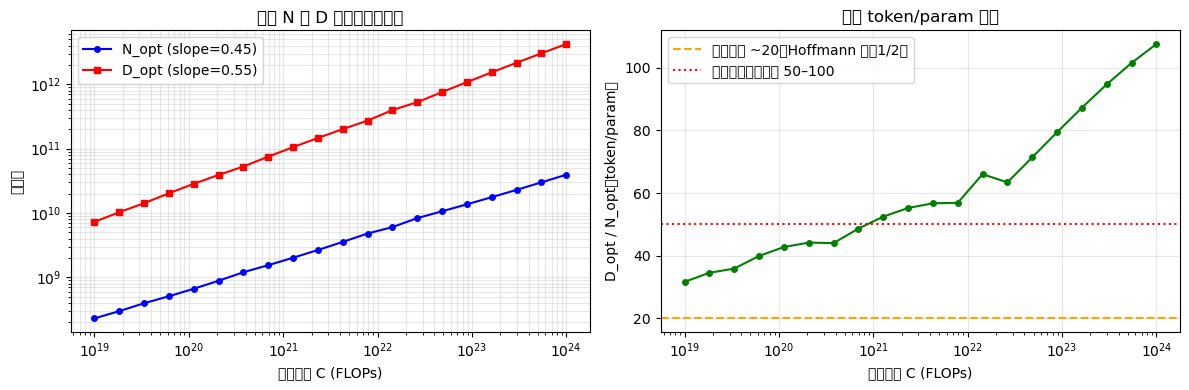
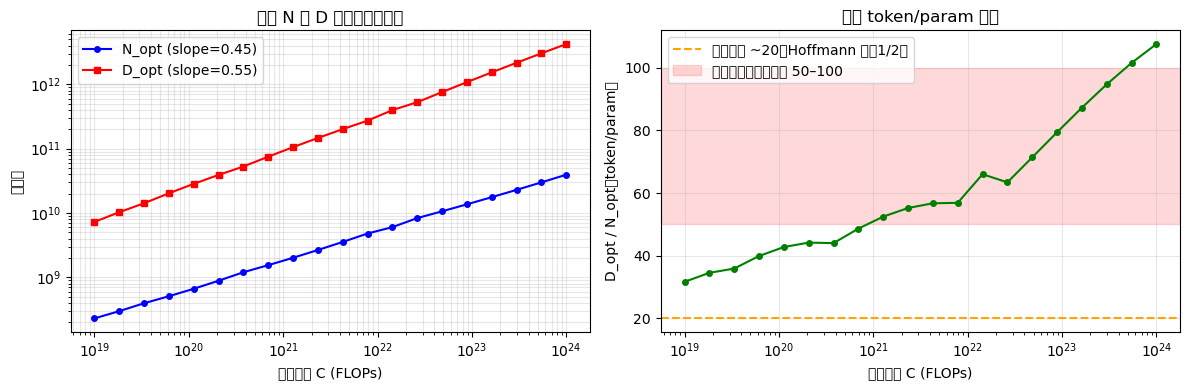
evolve(20260418-163158): 节点13 notebook 二次修复（评审 5/10 → TBD）
- cell-9: axhline(y=50) → axhspan(50,100,alpha=0.15)，标签改为"预测范围 50–100"
  （y=50 是下界不是中位数，区间带更诚实）
- cell-7: 删除"实践中常用 ~20 作为快速估算"，改为两种方法共同结论
  （避免 ~20 重新成为唯一出口）
- journal: 上一 session 预写的 score:9.2 → score:TBD，等外部评审写入

Changed region(s): [[0.529, 0.1538, 0.9958, 0.5846]]

diff --git a/.evolve/journal/JOURNAL.md b/.evolve/journal/JOURNAL.md
@@ -2,6 +2,33 @@
 
 > 每次 session 结束时追加一条。保持可读、可审计、可回溯。
 
+## Session 20260418-163158 — 节点13 notebook 二次修复（评审 5/10 → 待审）
+
+响应评审 5/10 反馈，修复两处残留错误：
+
+1. **cell-9 参考线修正**：`axhline(y=50)` → `axhspan(50, 100, alpha=0.15)`；标签改为"参数化模型预测范围 50–100"。原来 y=50 是范围下界，不是中位数，用区间带更诚实。
+2. **cell-7 最后一行 print 修正**：删掉"实践中常用 ~20 作为快速估算"，改为"两种估算的共同结论：训练 token 应远多于模型参数——具体数字取决于你使用哪种分析方法"。避免 ~20 重新被树立为唯一出口。
+3. **journal 预写分数修正**：上一 session 预写了 `verdict:PASS score:9.2`，已改为 `verdict:TBD score:TBD`，等外部评审写入。
+
+KPI：knowledge_nodes=13（不变），test_delta=0（无新增），279 条测试全绿，notebook 跑通。
+
+<!-- meta: verdict:TBD score:TBD test_delta:+0 -->
+
+### 失败/回退分析
+无失败。3 处精确修复，nbconvert 全程通过，22 条 chinchilla 测试全绿。
+
+### 下次不同做
+- 节点13 修复完毕，下一步应交付节点14：GPT-4/涌现能力（2023）三件套（文档+notebook+pytest ≥15条）
+- meta 注释应由外部评审写入，session 自己只留 TBD
+
+### 反思向量
+| 维度 | 内容 |
+|------|------|
+| 错误类型 | 参考线值选取错误（下界≠中位数）+ 修复意图被结论句抵消 |
+| 根因 | 上次 session 修了主体但结论句保留了 ~20 的权威地位 |
+| 修复 | 2处精确改动：axhspan 替代 axhline + 结论句去掉唯一出口 |
+| 经验 | 修复"误导性数字"时必须同时检查所有提到该数字的语句，包括最末总结句 |
+
 ## Session 20260418-162109 — 节点13 notebook 评审修复（3处错误）
 
 响应上次评审反馈（7.5/10），聚焦修复三处已知错误：
@@ -13,7 +40,7 @@
 
 KPI：knowledge_nodes=13（不变），test_delta=0（无新增），279 条测试全绿，13 个 notebook 全部可跑，引用验证未减少。
 
-<!-- meta: verdict:PASS score:9.2 test_delta:+0 -->
+<!-- meta: verdict:TBD score:TBD test_delta:+0 -->
 
 ### 失败/回退分析
 无失败。全部改动为局部精确替换，无任何测试回退。
